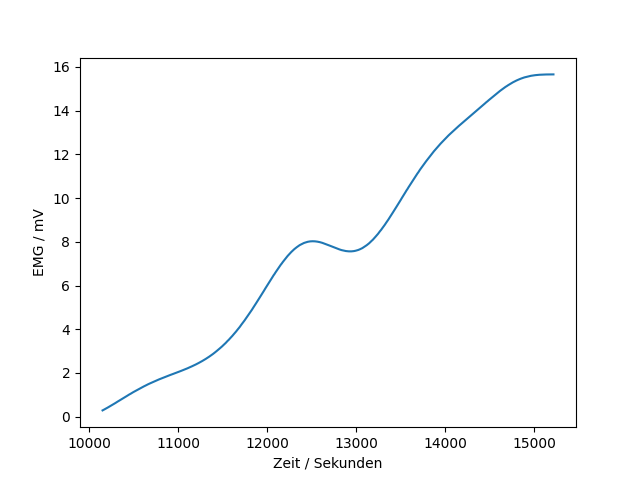
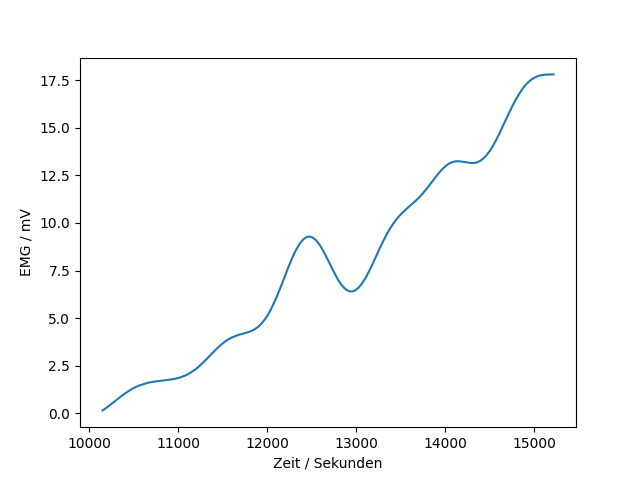
Average EMG-Angle

diff --git a/main.py b/main.py
@@ -37,7 +37,7 @@ def plot_steps_angle(time, angle, line, index_max, label):
 
 # Funktion zum Verarbeiten der EMG-Daten
 def process_emg(data, fs, label):
-    low_band, high_band, low_pass = 20, 450, 5
+    low_band, high_band, low_pass = 20, 450, 8
 
     plot_steps_emg(data["time"], data["emg"], "vor_average_" + label)
 
@@ -128,10 +128,92 @@ def process_angle(data, fs, label):
 
     return data
 
+# EMG im Bezug auf Winkel mitteln, wobei hierbei weiter diskretisiert wird. Rückgabe: längster Winkel-Vektor und gemitteltes EMG
+def average_angle_emg(data_person):
+    angle_len, avg_emg, avg_angle = [], [], []
+    index_longest, length_longest, angle_increment = 0, 0, 1
+    windows, window_length = [], [] # Anzahl der Fenster für jeden Datensatz; Anzahl der Indize pro Fenster
+    angle_end = [] # Winkel, bei welchen von 3 auf 2 bzw. 1 Array gewechselt wird
+    first_1, first_2 = 0, 0
+    
+    # Längstes Array und Länge jedes einzelnen
+    for dataset in range(3):
+        length = len(data_person[dataset])
+        angle_len.append(length)
+
+        if length >= length_longest:
+            length_longest = length
+            index_longest = dataset
+
+    # Anzahl der Iterationsschritt (1 Grad) ermitteln
+    for dataset in range(3):
+        windows.append(int((90 - data_person[dataset]["angle"][angle_len[dataset] - 1]) / angle_increment))
+        window_length.append(int(angle_len[dataset] / windows[dataset]))
+
+    # EMG Daten mitteln, mit Abfrage welche noch verfügbar sind (noch nicht fertig)
+    for window_counter in range(windows[index_longest]):
+        index = []
+
+        for dataset in range(3):
+            index.append(window_counter * window_length[dataset])
+
+        # Alle 3 mitteln
+        if index[0] <= angle_len[0] and index[1] <= angle_len[1] and index[2] <= angle_len[2]: 
+            avg_emg.append((data_person[0]["emg"][index[0]] + data_person[1]["emg"][index[1]] + data_person[2]["emg"][index[2]]) / 3)
+            
+        # Nur mehr 2 mitteln
+        elif index[0] <= angle_len[0] and index[1] <= angle_len[1]: 
+            avg_emg.append((data_person[0]["emg"][index[0]] + data_person[1]["emg"][index[1]]) / 2)
+            
+            if first_1 == 0:
+                angle_end.append(90 - window_counter * angle_increment)
+                first_1 = 1
+            
+        elif index[1] <= angle_len[1] and index[2] <= angle_len[2]: 
+            avg_emg.append((data_person[1]["emg"][index[1]] + data_person[2]["emg"][index[2]]) / 2)
+
+            if first_1 == 0:
+                angle_end.append(90 - window_counter * angle_increment)
+                first_1 = 1
+
+        elif index[0] <= angle_len[0] and index[2] <= angle_len[2]: 
+            avg_emg.append((data_person[0]["emg"][index[0]] + data_person[2]["emg"][index[2]]) / 2)
+
+            if first_1 == 0:
+                angle_end.append(90 - window_counter * angle_increment)
+                first_1 = 1
+
+        # Nur mehr 1 Array verfügbar
+        elif index[0] <= angle_len[0]: 
+            avg_emg.append(data_person[0]["emg"][index[0]])
+
+            if first_2 == 0:
+                angle_end.append(90 - window_counter * angle_increment)
+                first_2 = 1
+            
+        elif index[1] <= angle_len[1]: 
+            avg_emg.append(data_person[1]["emg"][index[1]])
+
+            if first_2 == 0:
+                angle_end.append(90 - window_counter * angle_increment)
+                first_2 = 1
+            
+        elif index[2] <= angle_len[2]: 
+            avg_emg.append(data_person[2]["emg"][index[2]])
+            
+            if first_2 == 0:
+                angle_end.append(90 - window_counter * angle_increment)
+                first_2 = 1
+            
+        avg_angle.append(90 - window_counter * angle_increment)
+
+    return avg_emg, avg_angle, angle_end  
+
 # ---------------------------------------------------
 # ---------------------------------------------------
 
 data_hamstring = []
+emg_avg, angle_avg, angle_end, index_end = [], [], [], []
 column_names = ["angle", "a_x", "a_y", "a_z", "emg", "time"]
 dataset_path, dataset_name = 0, 0
 
@@ -156,15 +238,24 @@ for person in range(3):
         # EMG-Daten verarbeiten
         data_hamstring[person][dataset] = process_emg(data_hamstring[person][dataset], 1000, str(person + 1) + "_" + str(dataset + 1))
 
-        # Plot
-        directory = os.path.join(os.getcwd(), "images")
-        directory = os.path.join(directory, "result")
-        path = os.path.join(directory, "result_angle_emg_" + str(person + 1) + "_" + str(dataset + 1) + ".png")
+        # Angle_Emg_Avg mitteln
+        if dataset == 2:
+            emg_avg_p, angle_avg_p, angle_end_p = average_angle_emg(data_hamstring[person])
+            emg_avg.append(emg_avg_p)
+            angle_avg.append(angle_avg_p)
+            angle_end.append(angle_end_p)
 
-        plt.figure()
-        plt.plot(data_hamstring[person][dataset]["angle"], data_hamstring[person][dataset]["emg"])
-        plt.gca().invert_xaxis() # x-Achse mit abnehmenden Werten
-        plt.xlabel("Winkel / Grad")
-        plt.ylabel("EMG / mV")
-        plt.savefig(path)
-        plt.close()
+            # Plot
+            directory = os.path.join(os.getcwd(), "images")
+            directory = os.path.join(directory, "result")
+            path = os.path.join(directory, "result_angle_emg_avg_" + str(person + 1) + "_" + str(dataset + 1) + ".png")
+
+            plt.figure()
+            plt.plot(angle_avg[person], emg_avg[person])
+            plt.gca().invert_xaxis() # x-Achse mit abnehmenden Werten
+            plt.axvline(angle_end[person][0], color = "magenta", linestyle = "dashed")   
+            plt.axvline(angle_end[person][1], color = "red", linestyle = "dashed")   
+            plt.xlabel("Winkel / Grad")
+            plt.ylabel("EMG / mV")
+            plt.savefig(path)
+            plt.close()
